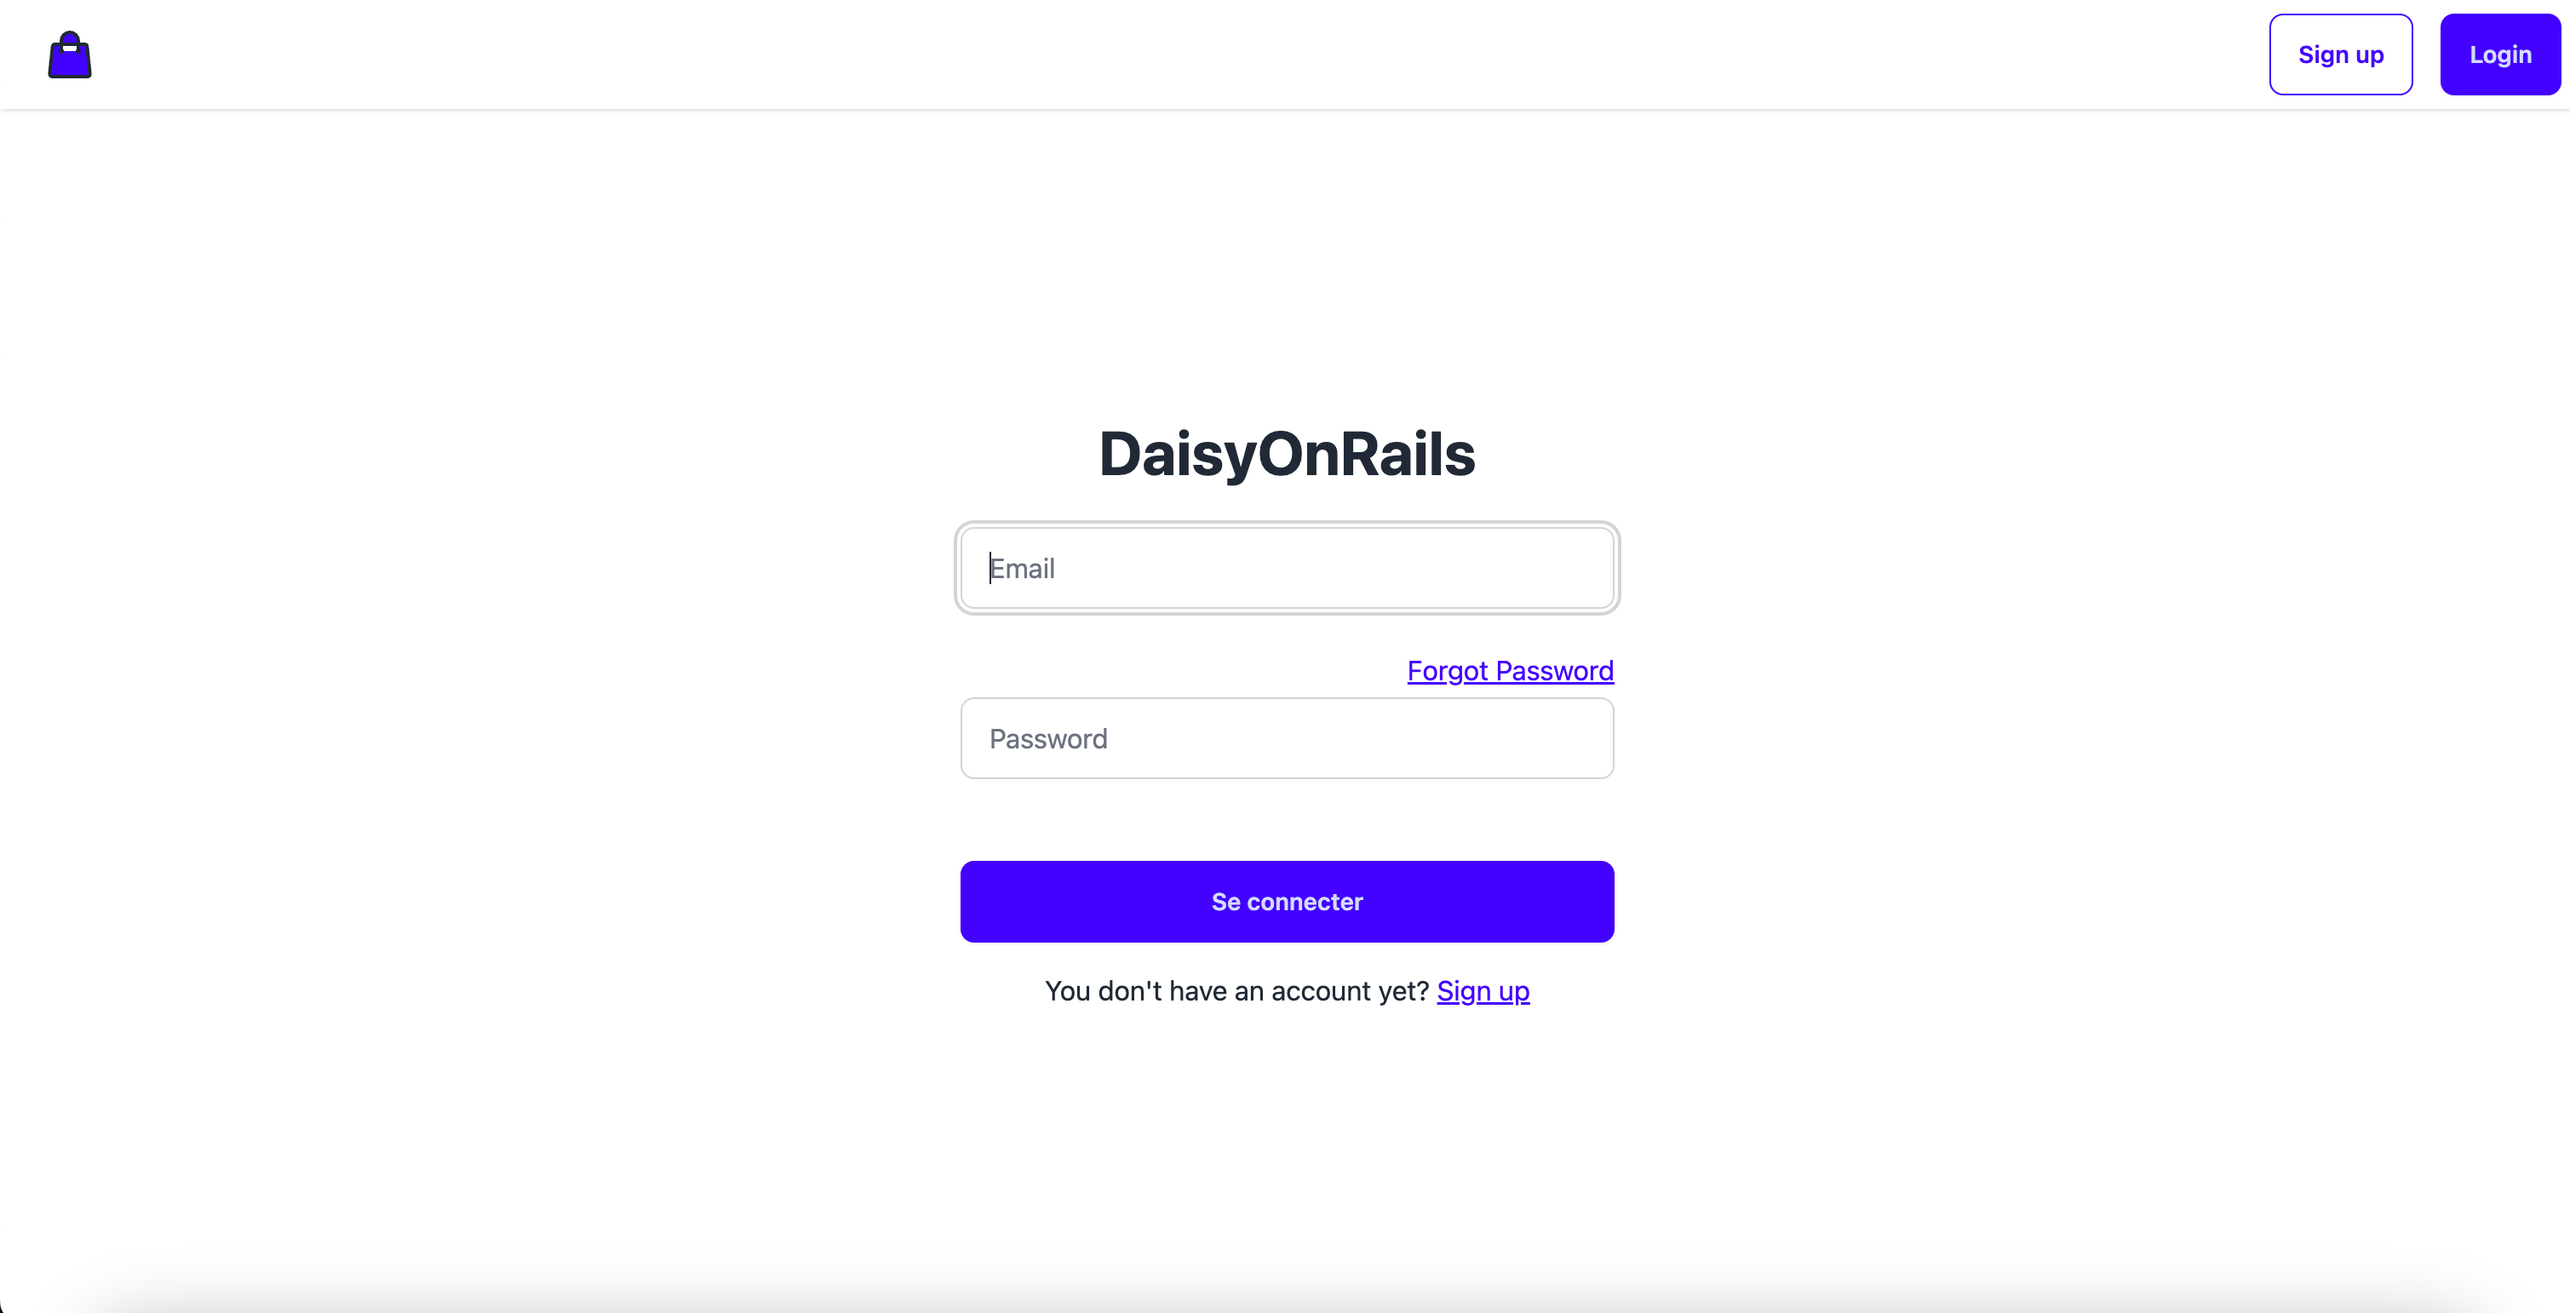
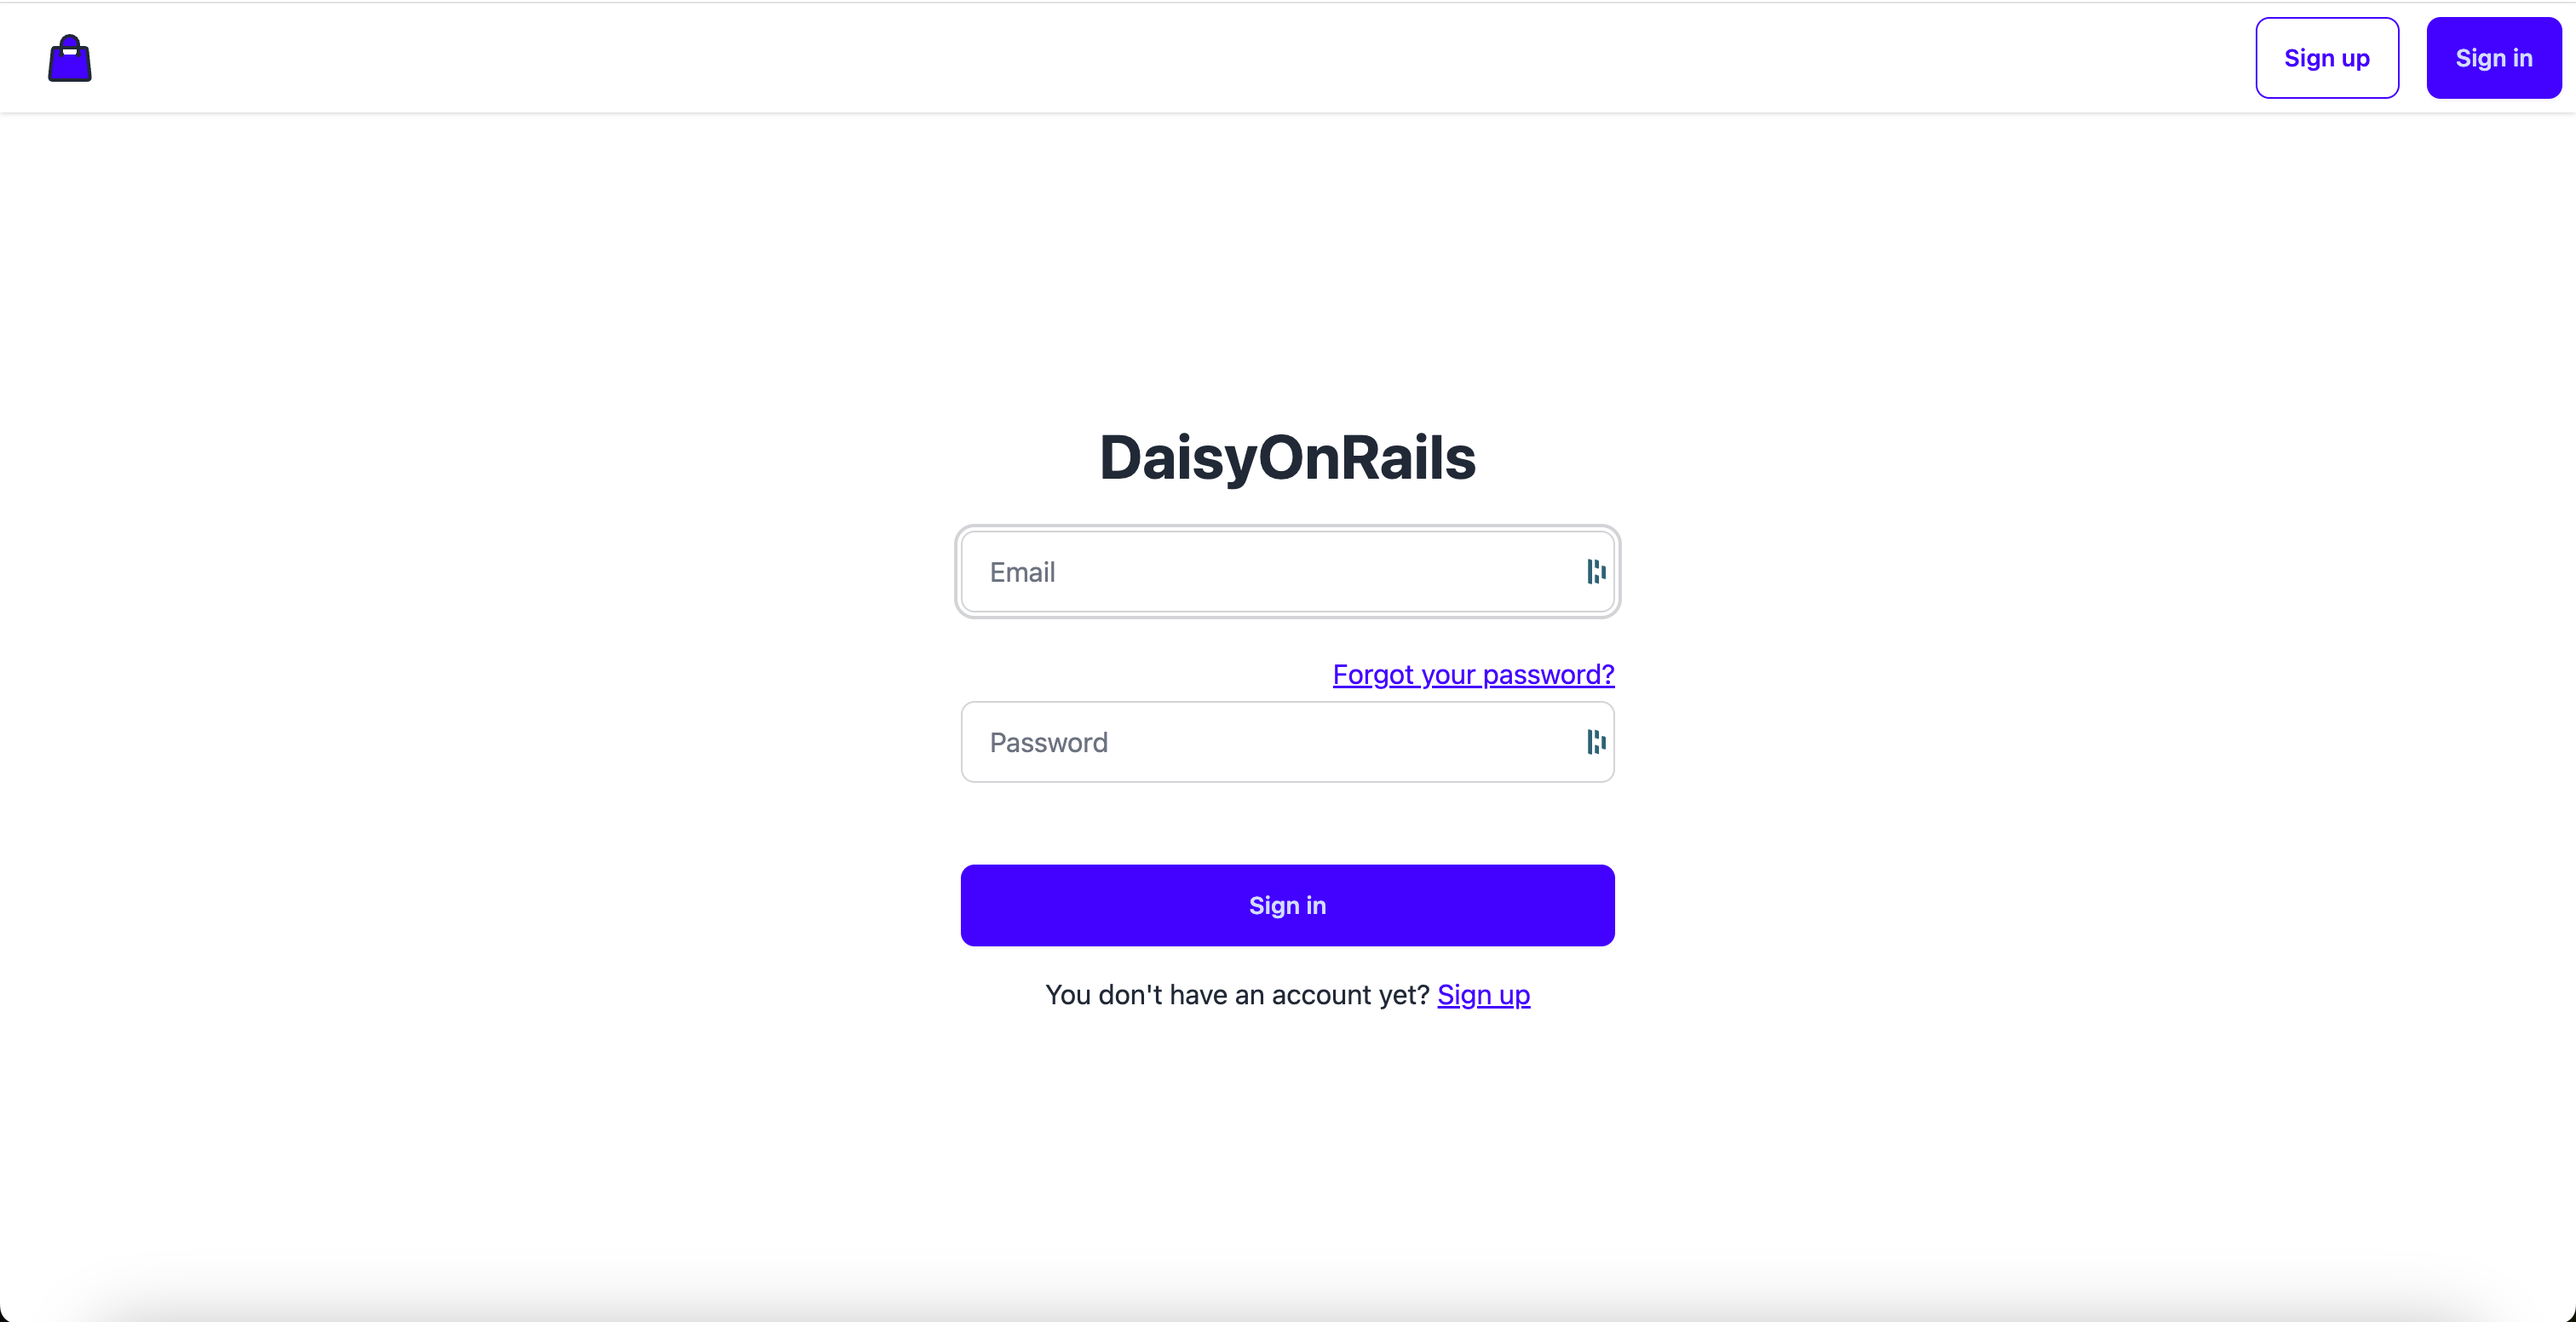
remove french

diff --git a/README.md b/README.md
@@ -47,7 +47,7 @@ The template includes default UI components for quick integration:
     <%= link_to t("forgot_password"), new_identity_password_reset_path, class: "link link-primary ml-auto" %>
     <%= form.ui_password_field :password, label: false, placeholder: t("password"), required: true, autocomplete: "current-password" %>
   </div>
-  <%= form.ui_submit "Se connecter", class: "mt-6", id: :sign_in %>
+  <%= form.ui_submit t("sign_in"), class: "mt-6", id: :sign_in %>
 <% end %>
 ```
 
